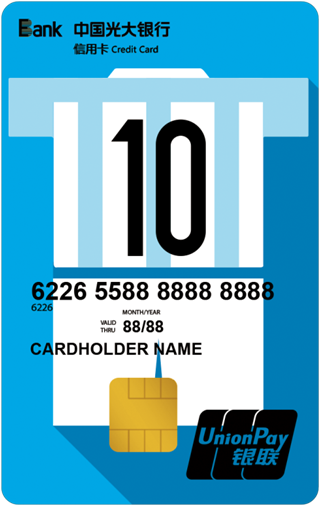
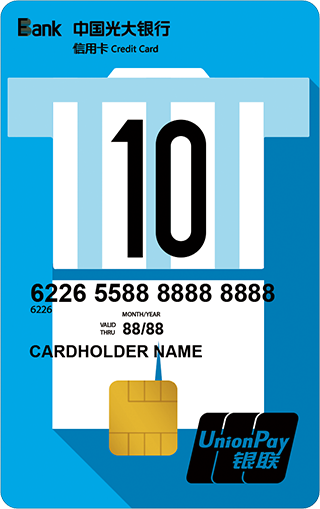
增加了世界杯卡相关的改动

diff --git a/js/ProductDetail.js b/js/ProductDetail.js
@@ -3,7 +3,7 @@ $('.mui-content').fadeIn();
 //右侧功能按钮
 //搜索
 $('.search-btn').on('tap', function() {
-	var proCode = GetQueryString(location.href,'pro_code');
+	var proCode = GetQueryString(location.href, 'pro_code');
 	location.href = 'https://xyk.cebbank.com/cebmms/apply/ps/card-list.htm?pro_code=' + proCode;
 })
 //关注
@@ -87,33 +87,33 @@ var list = [
 	{
 		content: document.querySelector('#meng-series-2-tpl').innerHTML
 	},
-//	{
-//		content: document.querySelector('#meng-series-1-tpl').innerHTML
-//	},
-//	{
-//		content: document.querySelector('#xing-series-3-tpl').innerHTML
-//	},
-//	{
-//		content: document.querySelector('#xing-series-2-tpl').innerHTML
-//	},
+	//	{
+	//		content: document.querySelector('#meng-series-1-tpl').innerHTML
+	//	},
+	//	{
+	//		content: document.querySelector('#xing-series-3-tpl').innerHTML
+	//	},
+	//	{
+	//		content: document.querySelector('#xing-series-2-tpl').innerHTML
+	//	},
 	{
 		content: document.querySelector('#xing-series-1-tpl').innerHTML
 	},
-//	{
-//		content: document.querySelector('#ran-series-5-tpl').innerHTML
-//	},
+	//	{
+	//		content: document.querySelector('#ran-series-5-tpl').innerHTML
+	//	},
 	{
 		content: document.querySelector('#ran-series-4-tpl').innerHTML
 	},
 	{
 		content: document.querySelector('#ran-series-3-tpl').innerHTML
 	},
-//	{
-//		content: document.querySelector('#ran-series-2-tpl').innerHTML
-//	},
-//	{
-//		content: document.querySelector('#ran-series-1-tpl').innerHTML
-//	}
+	//	{
+	//		content: document.querySelector('#ran-series-2-tpl').innerHTML
+	//	},
+	//	{
+	//		content: document.querySelector('#ran-series-1-tpl').innerHTML
+	//	}
 ]
 
 var initIndex = parseInt(GetQueryString(location.href, 'initIndex'));
@@ -168,7 +168,21 @@ var S = new iSlider({
 	//	isDebug: true,
 	isVertical: true
 });
-
+//初始化音乐图标
+switch(initIndex) {
+	case 2:
+		$('.music-btn').find('img').attr('src', 'img/icon_duck.png');
+		break;
+	case 3:
+		$('.music-btn').find('img').attr('src', 'img/iconxing.png');
+		break;
+	case 5:
+		$('.music-btn').find('img').attr('src', 'img/iconcup.png');
+		break;
+	default:
+		$('.music-btn').find('img').attr('src', 'img/icon_up.png');
+}
+//初始化滑动组件
 var ran3Swiper;
 var xing1Swiper;
 var xing2Swiper;
@@ -176,81 +190,81 @@ var xing3Swiper;
 var meng2Swiper;
 
 ran3Swiper = new Swiper('.swiper-container-ran3', {
-				//		direction: '',
-				loop: true,
-				effect: 'coverflow',
-				slidesPerView: 3,
-				centeredSlides: true,
-				//		setWrapperSize: true,
-				//		height:200,//你的slide高度
-				//		autoHeight:true,
-				coverflowEffect: {
-					rotate: 0,
-					stretch: 20,
-					depth: 120,
-					modifier: 2,
-					slideShadows: false,
-					other: {
-						type: 'ran',
-//						translateX: -20
-					}
-				},
-				on: {
-					slideChangeTransitionEnd: function() {
+	//		direction: '',
+	loop: true,
+	effect: 'coverflow',
+	slidesPerView: 2,
+	centeredSlides: true,
+	//				width:400,
+	//		setWrapperSize: true,
+	//		height:200,//你的slide高度
+	//		autoHeight:true,
+	coverflowEffect: {
+		rotate: 0,
+		stretch: 30,
+		depth: 250,
+		modifier: 2,
+		slideShadows: false,
+		other: {
+			type: 'ran',
+		}
+	},
+	on: {
+		slideChangeTransitionEnd: function() {
 
-					},
-				}
-			})
+		},
+	}
+})
 
 xing1Swiper = new Swiper('.swiper-container-xing1', {
-				//		direction: '',
-				loop: true,
-				effect: 'coverflow',
-				slidesPerView: 3,
-				//		centeredSlides: true,
-				//		setWrapperSize: true,
-				//		height:200,//你的slide高度
-				//		autoHeight:true,
-				coverflowEffect: {
-					rotate: 0,
-					stretch: 30,
-					depth: 90,
-					modifier: 2,
-					slideShadows: false,
-					other: {
-						type: 'xing',
-						translateX: -10
-					}
-				},
-				on: {
-					slideChangeTransitionEnd: function() {
-						console.log($('#xing-series-1').find('.swiper-slide-next').attr('data-name'))
-						$('#xing-series-1').find('.constellation').text($('#xing-series-1').find('.swiper-slide-next').attr('data-name'));
-					},
-				}
-			})
+	//		direction: '',
+	loop: true,
+	effect: 'coverflow',
+	slidesPerView: 3,
+	//		centeredSlides: true,
+	//		setWrapperSize: true,
+	//		height:200,//你的slide高度
+	//		autoHeight:true,
+	coverflowEffect: {
+		rotate: 0,
+		stretch: 30,
+		depth: 90,
+		modifier: 2,
+		slideShadows: false,
+		other: {
+			type: 'xing',
+			translateX: -10
+		}
+	},
+	on: {
+		slideChangeTransitionEnd: function() {
+			console.log($('#xing-series-1').find('.swiper-slide-next').attr('data-name'))
+			$('#xing-series-1').find('.constellation').text($('#xing-series-1').find('.swiper-slide-next').attr('data-name'));
+		},
+	}
+})
 
 meng2Swiper = new Swiper('.swiper-container-meng2', {
-				direction: 'vertical',
-				loop: true,
-				effect: 'coverflow',
-				slidesPerView: 2.5,
-				centeredSlides: true,
-				//		setWrapperSize: true,
-				height: 200, //你的slide高度
-				//		autoHeight:true,
-				coverflowEffect: {
-					rotate: 1,
-					stretch: 0,
-					depth: 10,
-					modifier: 10,
-					slideShadows: false,
-					other: {
-						type: 'meng',
-						translateZ: 130
-					}
-				},
-			})
+	direction: 'vertical',
+	loop: true,
+	effect: 'coverflow',
+	slidesPerView: 2.5,
+	centeredSlides: true,
+	//		setWrapperSize: true,
+	height: 200, //你的slide高度
+	//		autoHeight:true,
+	coverflowEffect: {
+		rotate: 1,
+		stretch: 0,
+		depth: 10,
+		modifier: 10,
+		slideShadows: false,
+		other: {
+			type: 'meng',
+			translateZ: 130
+		}
+	},
+})
 
 S.on('slideChanged', function(index, dom) {
 	if(index > 3) {
@@ -321,7 +335,7 @@ S.on('slideChanged', function(index, dom) {
 	//滑动初始化
 	if(document.querySelector('#ran-series-3')) {
 		if(!ran3Swiper) {
-			ran3Swiper = new Swiper('.swiper-container-ran3', {
+			/*ran3Swiper = new Swiper('.swiper-container-ran3', {
 				//		direction: '',
 				loop: true,
 				effect: 'coverflow',
@@ -346,12 +360,38 @@ S.on('slideChanged', function(index, dom) {
 
 					},
 				}
+			})*/
+			ran3Swiper = new Swiper('.swiper-container-ran3', {
+				//		direction: '',
+				loop: true,
+				effect: 'coverflow',
+				slidesPerView: 2,
+				centeredSlides: true,
+				//				width:400,
+				//		setWrapperSize: true,
+				//		height:200,//你的slide高度
+				//		autoHeight:true,
+				coverflowEffect: {
+					rotate: 0,
+					stretch: 30,
+					depth: 250,
+					modifier: 2,
+					slideShadows: false,
+					other: {
+						type: 'ran',
+					}
+				},
+				on: {
+					slideChangeTransitionEnd: function() {
+
+					},
+				}
 			})
 			$('#ran-series-3').find('.card-apply').on('tap', function() {
 				if($('#ran-series-3').find('.swiper-slide-active').attr('data-name') == '光大VISA世界杯卡') {
 					var pro_code = GetQueryString(location.href, 'pro_code');
 					var cardId = $('#ran-series-3').find('.swiper-slide-active').attr('data-card-id');
-					location.href = 'https://xyk.cebbank.com/cebmms/apply/ps/card-index.htm?req_card_id='+ cardId +'&pro_code=' + pro_code + '&c2c_recom_flag=';
+					location.href = 'https://xyk.cebbank.com/cebmms/apply/ps/card-index.htm?req_card_id=' + cardId + '&pro_code=' + pro_code + '&c2c_recom_flag=';
 				}
 			})
 		}

diff --git a/ProductDetail.html b/ProductDetail.html
@@ -54,7 +54,7 @@
 				<p>1<span>w+</span></p>
 			</div>
 			<a class="melody-btn"><img src="img/music.png" /></a>
-			<a class="music-btn"><img src="img/iconcup.png" /></a>
+			<a class="music-btn"><img /></a>
 		</div>
 		<script type="text/x-handlebars-template" id="ran-series-1-tpl">
 			<!--燃系列1-->
@@ -141,7 +141,7 @@
 					</div>
 				</div>
 				<div class="card-slogan">
-					我的激情 我们的目标
+					足球、我的激情，奖杯、我们的目标。
 				</div>
 			</div>
 		</script>

diff --git a/css/ProductDetail.css b/css/ProductDetail.css
@@ -424,7 +424,7 @@ body {
 }
 
 #ran-series-3 .card .card-cover img {
-	width: 150%;
+	width: 100%;
 	/*width: 50%;*/
 }
 
@@ -473,7 +473,7 @@ body {
 }
 
 #ran-series-3 .swiper-container {
-	/*height: 330px;*/
+	/*height: 300px;*/
 }
 
 
